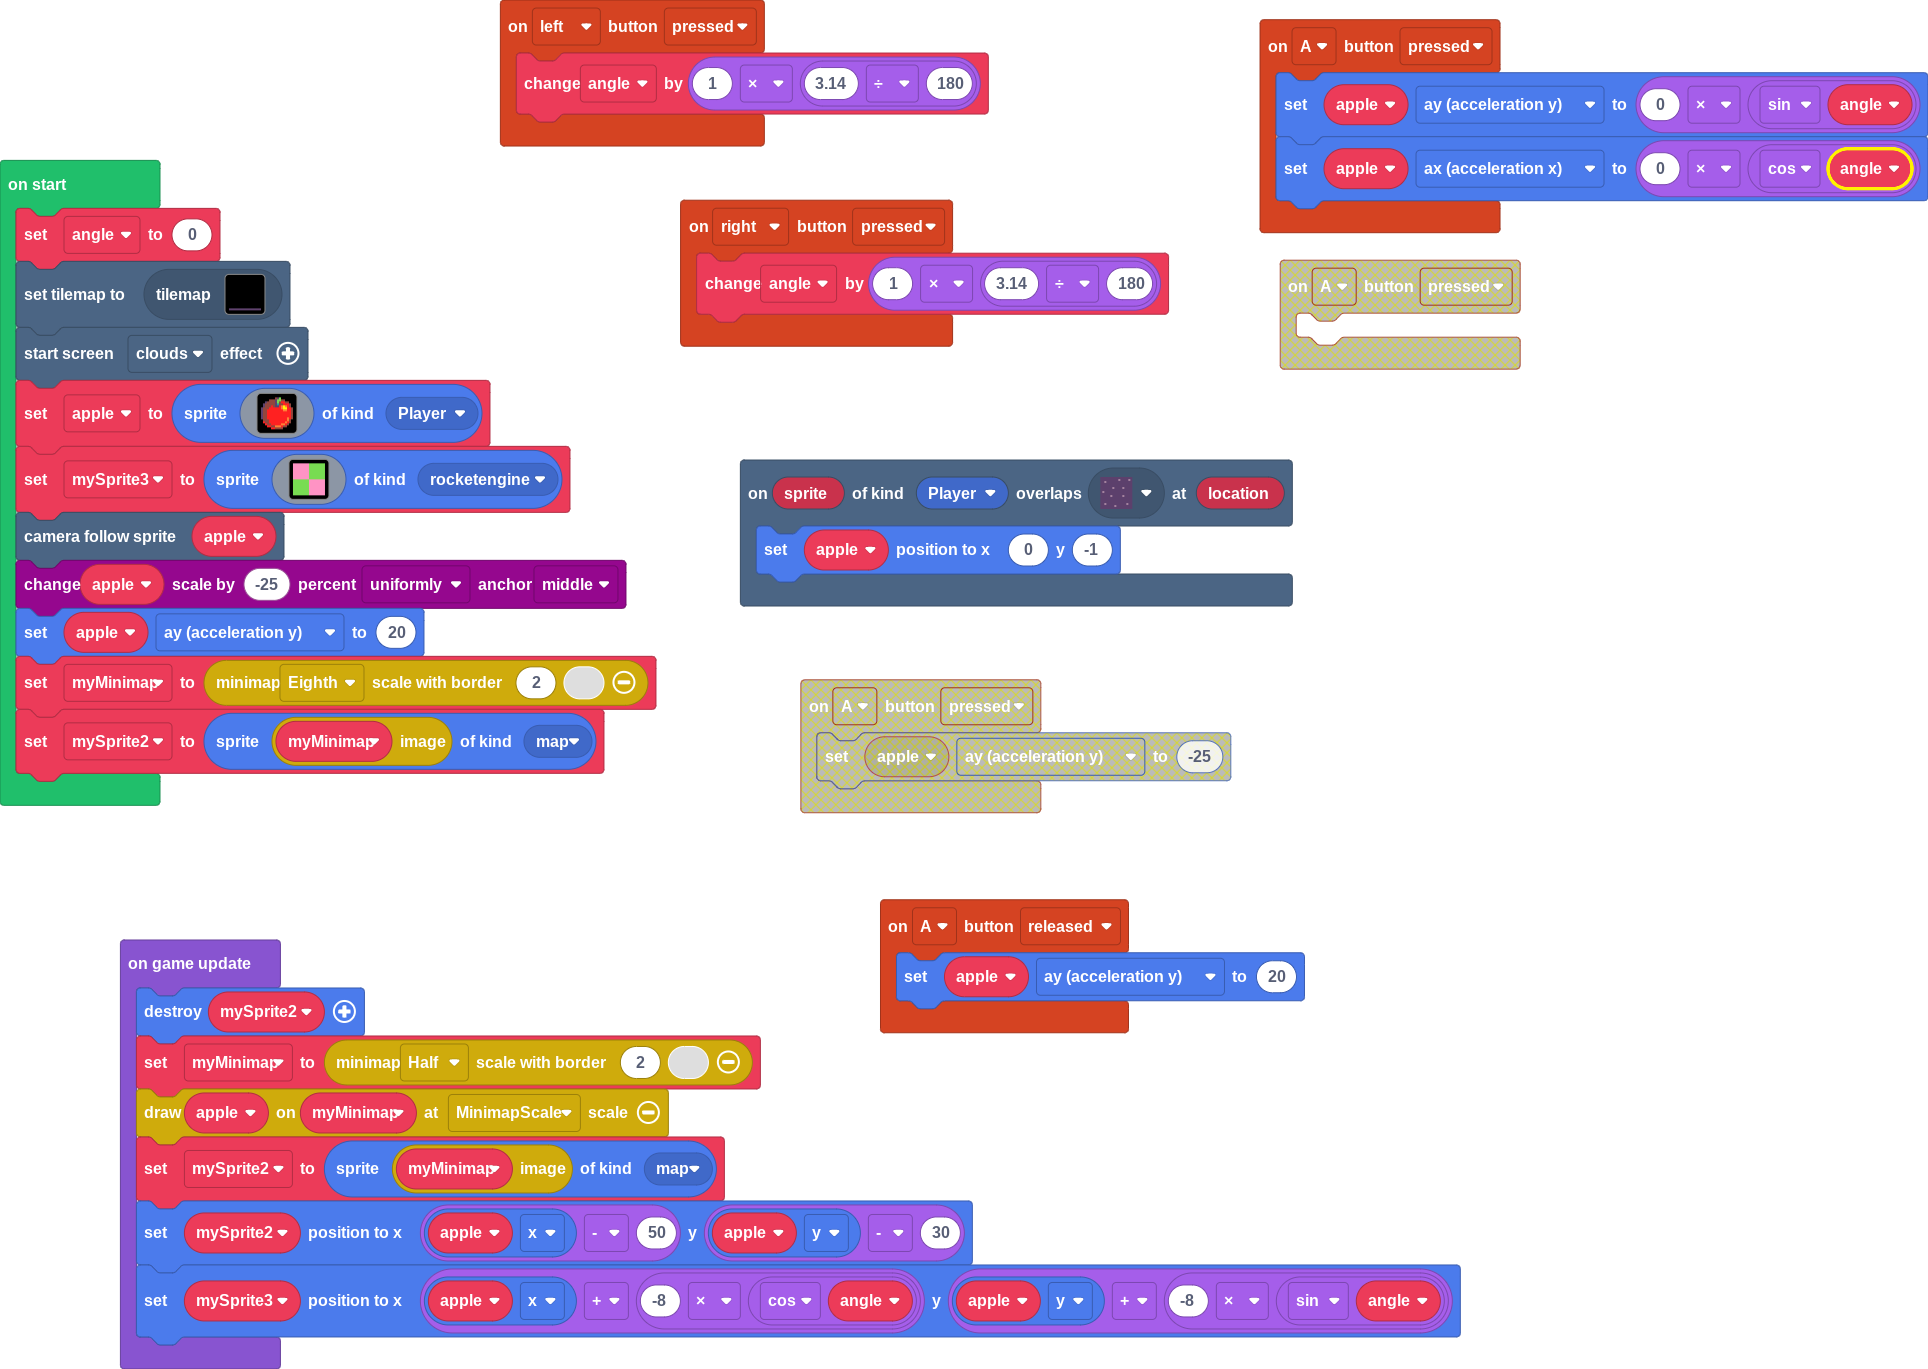
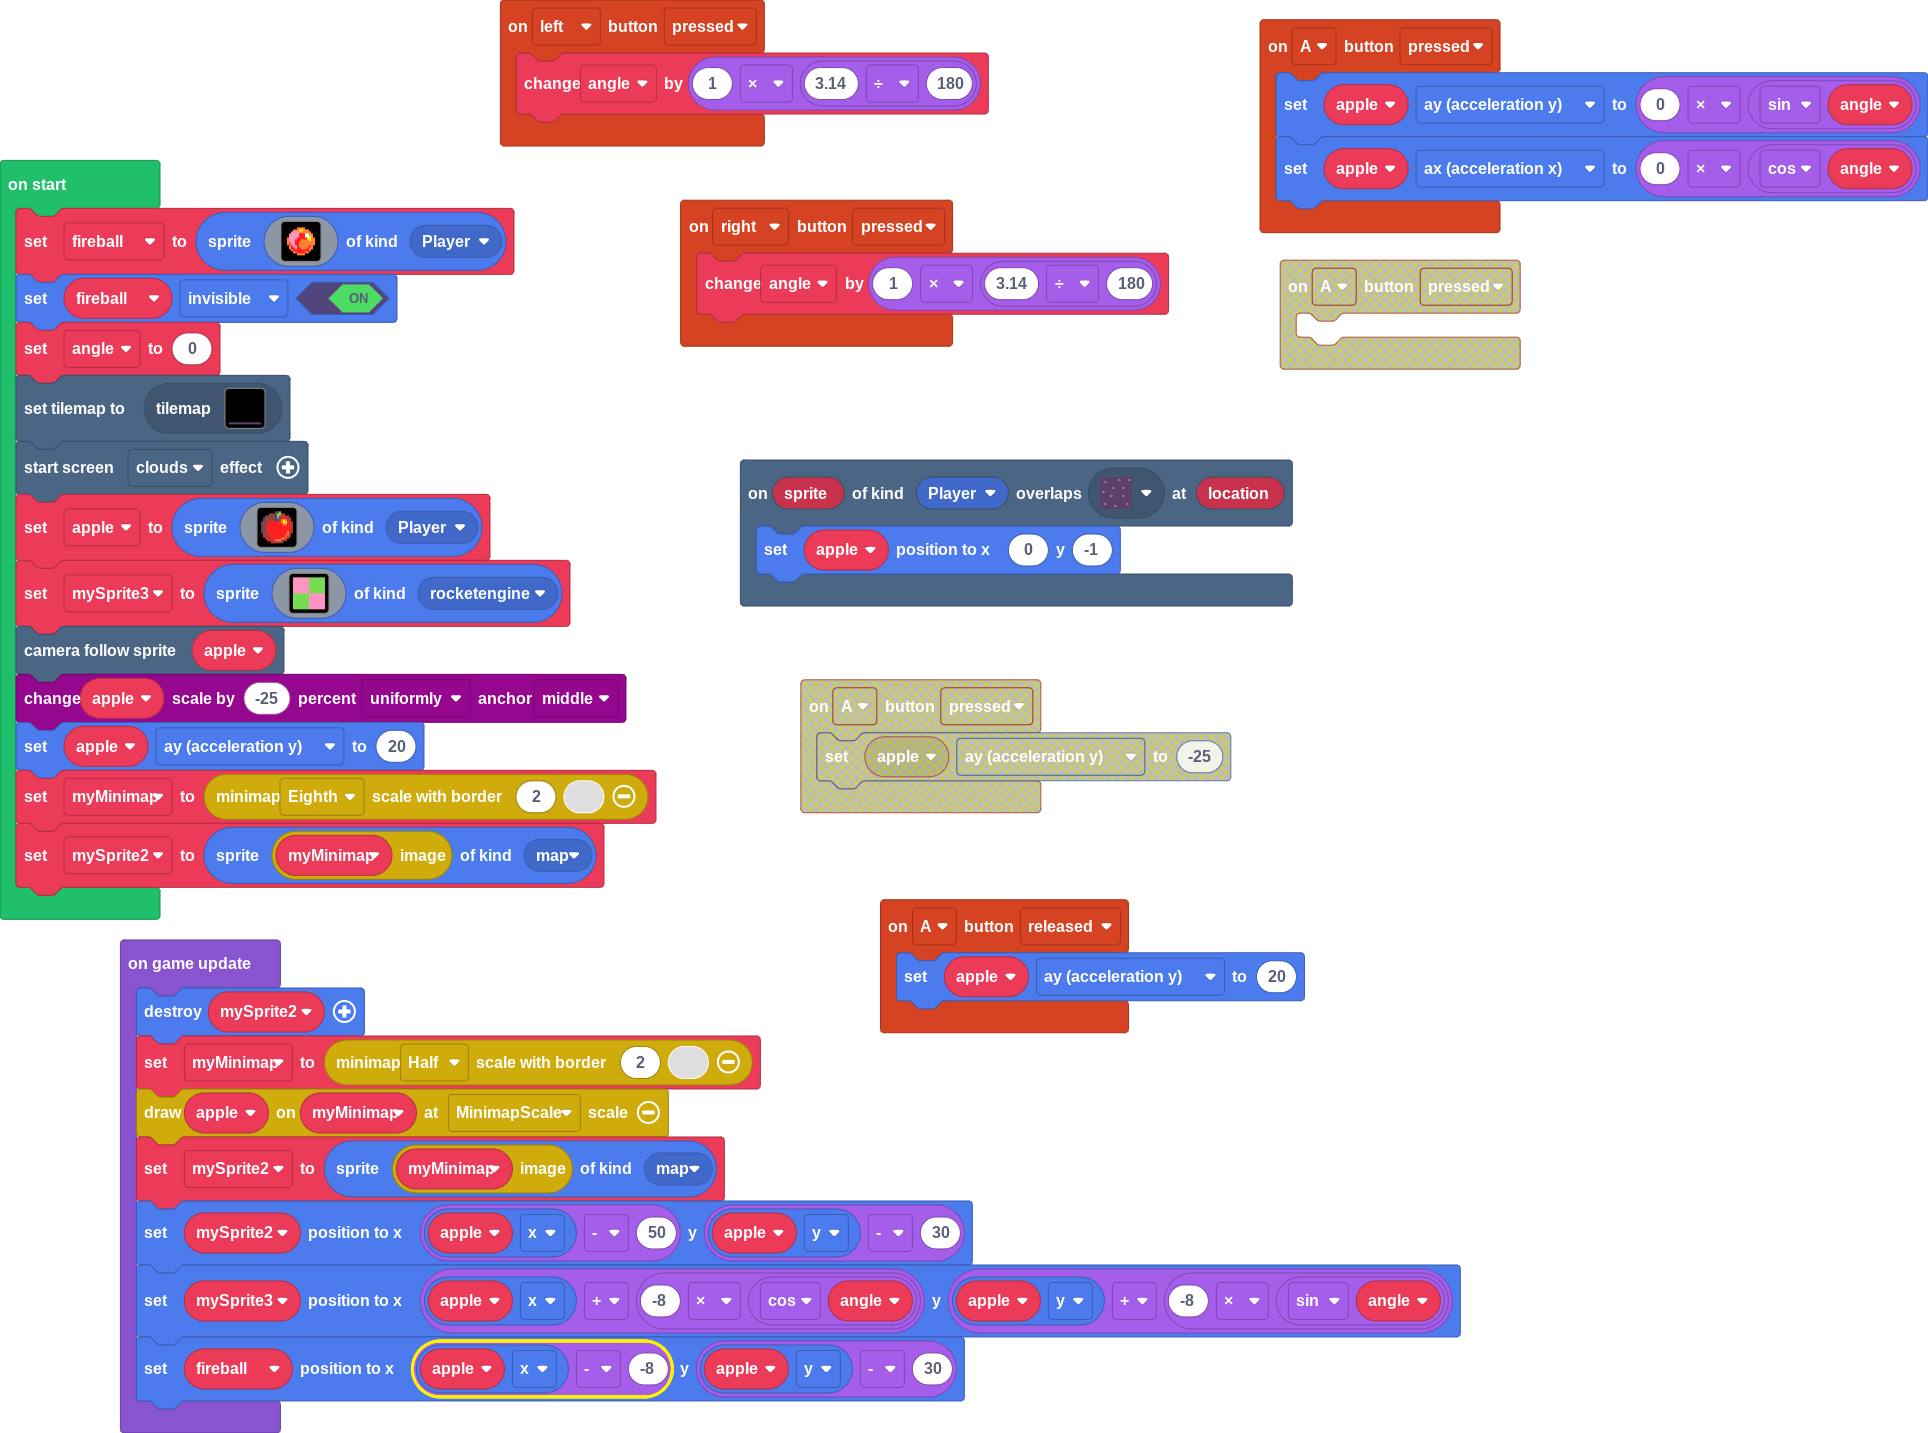
finished the fireball

diff --git a/main.ts b/main.ts
@@ -20,6 +20,25 @@ controller.A.onEvent(ControllerButtonEvent.Released, function () {
 })
 let apple: Sprite = null
 let angle = 0
+let fireball = sprites.create(img`
+    . . . . . . . . . . . . . . . . 
+    . . . . . . 4 4 4 4 . . . . . . 
+    . . . . 4 4 4 5 5 4 4 4 . . . . 
+    . . . 3 3 3 3 4 4 4 4 4 4 . . . 
+    . . 4 3 3 3 3 2 2 2 1 1 4 4 . . 
+    . . 3 3 3 3 3 2 2 2 1 1 5 4 . . 
+    . 4 3 3 3 3 2 2 2 2 2 5 5 4 4 . 
+    . 4 3 3 3 2 2 2 4 4 4 4 5 4 4 . 
+    . 4 4 3 3 2 2 4 4 4 4 4 4 4 4 . 
+    . 4 2 3 3 2 2 4 4 4 4 4 4 4 4 . 
+    . . 4 2 3 3 2 4 4 4 4 4 2 4 . . 
+    . . 4 2 2 3 2 2 4 4 4 2 4 4 . . 
+    . . . 4 2 2 2 2 2 2 2 2 4 . . . 
+    . . . . 4 4 2 2 2 2 4 4 . . . . 
+    . . . . . . 4 4 4 4 . . . . . . 
+    . . . . . . . . . . . . . . . . 
+    `, SpriteKind.Player)
+fireball.setFlag(SpriteFlag.Invisible, true)
 angle = 0
 tiles.setCurrentTilemap(tilemap`level1`)
 effects.clouds.startScreenEffect()
@@ -57,4 +76,5 @@ game.onUpdate(function () {
     mySprite2 = sprites.create(minimap.getImage(myMinimap), SpriteKind.map)
     mySprite2.setPosition(apple.x - 50, apple.y - 30)
     mySprite3.setPosition(apple.x + -8 * Math.cos(angle), apple.y + -8 * Math.sin(angle))
+    fireball.setPosition(apple.x - -8, apple.y - 30)
 })
